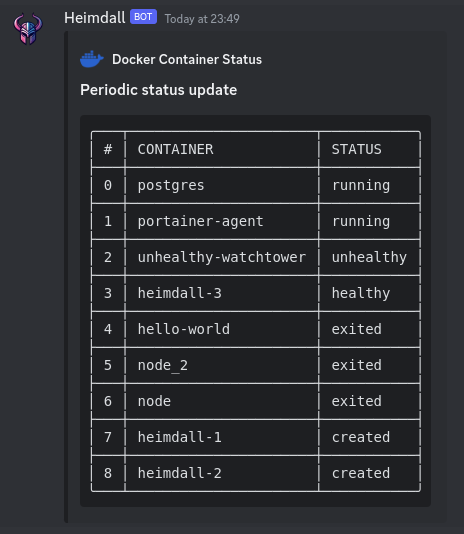
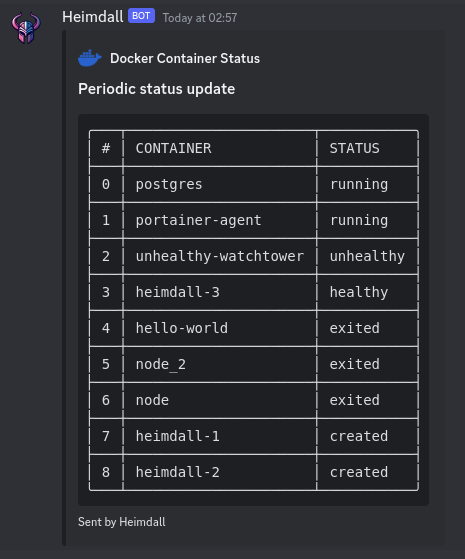
feat: 🎸 add hostname options, tidy up readme, code improvements
deduped some code in the Discord provider file

✅ Closes: #12

diff --git a/pkg/heimdall/discord.go b/pkg/heimdall/discord.go
@@ -15,11 +15,25 @@ func New(webhookURL string) *DiscordProvider {
 	}
 }
 
-var AvatarUrl = "https://raw.githubusercontent.com/RobinHeidenis/heimdall/main/public/logo.png"
-var BotName = "Heimdall"
+var avatarUrl = "https://raw.githubusercontent.com/RobinHeidenis/heimdall/main/public/logo.png"
+var botName = "Heimdall"
+
+var footerText = "Sent by Heimdall"
+
+var footer = discordwebhook.Footer{
+	Text: &footerText,
+}
+
+func getHostnameAdditionText() string {
+	hostnameAddition := ""
+	if Hostname != "" {
+		hostnameAddition = fmt.Sprintf(" (%s)", Hostname)
+	}
+	return hostnameAddition
+}
 
 func (p DiscordProvider) SendPeriodicContainerStatusUpdate(updateTable string) {
-	authorName := "Docker Container Status"
+	authorName := "Docker Container Status" + getHostnameAdditionText()
 	authorIconUrl := "https://www.docker.com/wp-content/uploads/2023/04/cropped-Docker-favicon-32x32.png"
 	title := "Periodic status update"
 	description := fmt.Sprintf("```\n%s```", updateTable)
@@ -33,11 +47,12 @@ func (p DiscordProvider) SendPeriodicContainerStatusUpdate(updateTable string) {
 		Author:      &author,
 		Title:       &title,
 		Description: &description,
+		Footer:      &footer,
 	}}
 
 	message := discordwebhook.Message{
-		Username:  &BotName,
-		AvatarUrl: &AvatarUrl,
+		Username:  &botName,
+		AvatarUrl: &avatarUrl,
 		Embeds:    &embeds,
 	}
 
@@ -66,19 +81,19 @@ func makeWebhookMessage(event ContainerEvent) discordwebhook.Message {
 	var title string
 	switch event.Container.Health {
 	case Running:
-		title = fmt.Sprintf("Container %s has started", event.Container.Name)
+		title = fmt.Sprintf("%s has started", event.Container.Name)
 		if event.Event == UnpausedEvent {
-			title = fmt.Sprintf("Container %s has been unpaused", event.Container.Name)
+			title = fmt.Sprintf("%s has been unpaused", event.Container.Name)
 		}
 	case Exited:
-		title = fmt.Sprintf("Container %s has stopped", event.Container.Name)
+		title = fmt.Sprintf("%s has stopped", event.Container.Name)
 	case Paused:
-		title = fmt.Sprintf("Container %s has been paused", event.Container.Name)
+		title = fmt.Sprintf("%s has been paused", event.Container.Name)
 	case Errored:
-		title = fmt.Sprintf("Container %s has errored", event.Container.Name)
+		title = fmt.Sprintf("%s has errored", event.Container.Name)
 		description = fmt.Sprintf("`%s`'s status is now `%s` with exit code `%d`", event.Container.Name, "Stopped", event.ExitCode)
 	default:
-		title = fmt.Sprintf("Container %s is %s", event.Container.Name, event.Container.Health)
+		title = fmt.Sprintf("%s is %s", event.Container.Name, event.Container.Health)
 	}
 
 	idFieldName := "ID:"
@@ -103,18 +118,12 @@ func makeWebhookMessage(event ContainerEvent) discordwebhook.Message {
 		fields = append(fields, discordwebhook.Field{Name: &errorFieldName, Value: &event.Error})
 	}
 
-	authorName := "Docker Container Status Update"
+	authorName := "Docker Container Status Update" + getHostnameAdditionText()
 	iconUrl := "https://www.docker.com/wp-content/uploads/2023/04/cropped-Docker-favicon-32x32.png"
 
 	author := discordwebhook.Author{
 		Name:    &authorName,
 		IconUrl: &iconUrl,
-	}
-
-	footerText := "Sent by Heimdall"
-
-	footer := discordwebhook.Footer{
-		Text: &footerText,
 	}
 
 	var embedColor = "0"
@@ -142,7 +151,7 @@ func makeWebhookMessage(event ContainerEvent) discordwebhook.Message {
 
 	return discordwebhook.Message{
 		Embeds:    &embeds,
-		Username:  &BotName,
-		AvatarUrl: &AvatarUrl,
+		Username:  &botName,
+		AvatarUrl: &avatarUrl,
 	}
 }

diff --git a/pkg/heimdall/heimdall.go b/pkg/heimdall/heimdall.go
@@ -14,11 +14,16 @@ import (
 )
 
 var DebugMode bool
+
 var PeriodicNotifications bool
 var PeriodicNotificationInterval int
 var AllContainers bool
+
 var Retry int
+
 var Provider IProvider
+
+var Hostname string
 
 var IsHealthy = false
 
@@ -30,6 +35,7 @@ func init() {
 	fs.IntVar(&PeriodicNotificationInterval, 'i', "notification-interval", 60, "Interval in minutes between periodic notifications")
 	fs.BoolVar(&AllContainers, 'a', "all-containers", "Enable periodic notifications for all containers, including stopped ones")
 	fs.IntVar(&Retry, 'r', "retry", 10, "Retry in seconds when the docker event stream ends")
+	fs.StringVar(&Hostname, 'h', "hostname", "", "Hostname to use in notifications. Useful when running multiple instances of Heimdall")
 	var provider = fs.StringEnum('p', "provider", "Provider to use for notifications", "discord")
 	var webhookUrl = fs.String('w', "webhook-url", "", "Webhook URL to use for notifications")
 

diff --git a/README.md b/README.md
@@ -72,6 +72,7 @@
                     <li><a href="#running-containers">Running containers</a></li>
                     <li><a href="#all-containers">All containers</a></li>
                 </ul>
+                <li><a href="#notifications-with-a-hostname">Notifications with a hostname</a></li>
             </ul>
         </li>
       </ol>
@@ -131,8 +132,6 @@ Be sure to download the right binary for your operating system.
 | ![macOS](https://img.shields.io/badge/mac%20os-000000?style=for-the-badge&logo=macos&logoColor=F0F0F0)   | heimdall_Darwin_x86_64  |
 
 Other binaries are available in case you have a different architecture or operating system.
-Other binaries are available in case you have a different architecture or operating system.
-
 
 After downloading the release, you can run it by executing the following command:
 ```bash
@@ -155,15 +154,16 @@ sudo ln -s ~/.docker/desktop/docker.sock /var/run/docker.sock
 ## Customisation
 Heimdall can be customised by using flags or environment variables. Either works, but flags take precedence over environment variables. Short flags can be used in place of the longer flags to save some typing.
 
-| Long flag                 | Short flag | Environment Variable             | Default   | Required                                                                                         | Explanation                                                                                      |
-|---------------------------|------------|----------------------------------|-----------|--------------------------------------------------------------------------------------------------|--------------------------------------------------------------------------------------------------|
-| `--periodic-notification` | `-n`       | `HEIMDALL_PERIODIC_NOTIFICATION` | `false`   | No                                                                                               | Enable periodic notifications                                                                    |
-| `--notification-interval` | `-i`       | `HEIMDALL_NOTIFICATION_INTERVAL` | `60`      | Only if periodic notifications are enabled and you want a different value than default           | How often (in minutes) periodic notifications should be sent                                     |
-| `--all-containers`        | `-a`       | `HEIMDALL_ALL_CONTAINERS`        | `false`   | Only if periodic notifications are enabled and you want periodic notifications on all containers | Enable periodic notification reporting on all containers, including stopped ones                 |
-| `--retry`                 | `-r`       | `HEIMDALL_RETRY`                 | `10`      | No                                                                                               | How long Heimdall should sleep before retrying in case the Docker event stream ends unexpectedly |
-| `--provider`              | `-p`       | `HEIMDALL_PROVIDER`              | `discord` | No                                                                                               | What notification provider should be used. Possible values: `discord`                            |
-| `--webhook-url`           | `-w`       | `HEIMDALL_WEBHOOK_URL`           | -         | Yes                                                                                              | What URL Heimdall should use to send notifications to                                            |
-| `--debug`                 | `-d`       | `HEIMDALL_DEBUG`                 | `false`   | No                                                                                               | Enable extra debug messages                                                                      |
+| Long flag                 | Short flag | Environment Variable             | Default   | Required                                                                                         | Explanation                                                                                                                                                            |
+|---------------------------|------------|----------------------------------|-----------|--------------------------------------------------------------------------------------------------|------------------------------------------------------------------------------------------------------------------------------------------------------------------------|
+| `--periodic-notification` | `-n`       | `HEIMDALL_PERIODIC_NOTIFICATION` | `false`   | No                                                                                               | Enable periodic notifications                                                                                                                                          |
+| `--notification-interval` | `-i`       | `HEIMDALL_NOTIFICATION_INTERVAL` | `60`      | Only if periodic notifications are enabled and you want a different value than default           | How often (in minutes) periodic notifications should be sent                                                                                                           |
+| `--all-containers`        | `-a`       | `HEIMDALL_ALL_CONTAINERS`        | `false`   | Only if periodic notifications are enabled and you want periodic notifications on all containers | Enable periodic notification reporting on all containers, including stopped ones                                                                                       |
+| `--retry`                 | `-r`       | `HEIMDALL_RETRY`                 | `10`      | No                                                                                               | How long Heimdall should sleep before retrying in case the Docker event stream ends unexpectedly                                                                       |
+| `--provider`              | `-p`       | `HEIMDALL_PROVIDER`              | `discord` | No                                                                                               | What notification provider should be used. Possible values: `discord`                                                                                                  |
+| `--webhook-url`           | `-w`       | `HEIMDALL_WEBHOOK_URL`           | -         | Yes                                                                                              | What URL Heimdall should use to send notifications to                                                                                                                  |
+| `--hostname`              | `-h`       | `HEIMDALL_HOSTNAME`              | -         | No, but recommended in case you run Heimdall on multiple devices                                 | The name of the host Heimdall is running on. This will cause Heimdall to send status updates with the device name in them: `Docker Container Status Update (Hostname)` |
+| `--debug`                 | `-d`       | `HEIMDALL_DEBUG`                 | `false`   | No                                                                                               | Enable extra debug messages                                                                                                                                            |
 
 
 ## Technologies
@@ -214,3 +214,6 @@ It uses the following technologies:
 
 #### All containers
 ![container-list-all.png](public/container-list-all.png)
+
+### Notifications with a hostname
+![notifications-with-hostname.png](public/notifications-with-hostname.png)
